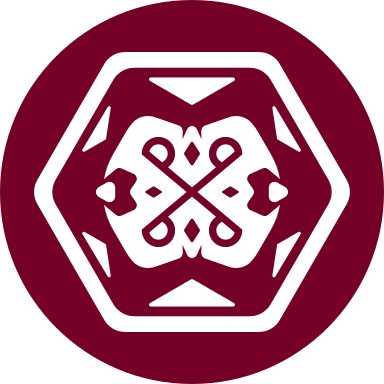
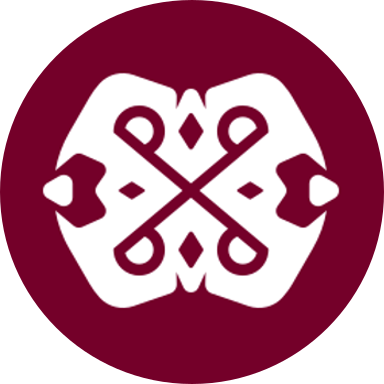
tile design options

Changed region(s): [[0.0625, 0.125, 0.9375, 0.875]]

diff --git a/js/PaiShoMain.js b/js/PaiShoMain.js
@@ -135,10 +135,10 @@ window.requestAnimationFrame(function () {
 
 	/* Tile Design Preferences */
 	if (!localStorage.getItem(tileDesignTypeKey)) {
-		setSkudTilesOption(tileDesignTypeValues.hlowe);
+		setSkudTilesOption(tileDesignTypeValues.hlowenew);
 	} else {
-		if (localStorage.getItem(tileDesignTypeKey) === tileDesignTypeValues.hlowenew) {
-			setSkudTilesOption(tileDesignTypeValues.hlowe);
+		if (localStorage.getItem(tileDesignTypeKey) === tileDesignTypeValues.hlowe) {
+			setSkudTilesOption(tileDesignTypeValues.hlowenew);
 		} else {
 			setSkudTilesOption(localStorage.getItem(tileDesignTypeKey));
 		}
@@ -517,9 +517,9 @@ function setSkudTilesOption(newSkudTilesKey) {
 }
 
 function toggleTileDesigns() {
-	var newSkudTilesKey = tileDesignTypeValues.hlowe;
+	var newSkudTilesKey = tileDesignTypeValues.hlowenew;
 	switch (skudTilesKey) {
-		case tileDesignTypeValues.hlowe:
+		case tileDesignTypeValues.hlowenew:
 			newSkudTilesKey = tileDesignTypeValues.hlowemono;
 			break;
 		case tileDesignTypeValues.hlowemono:
